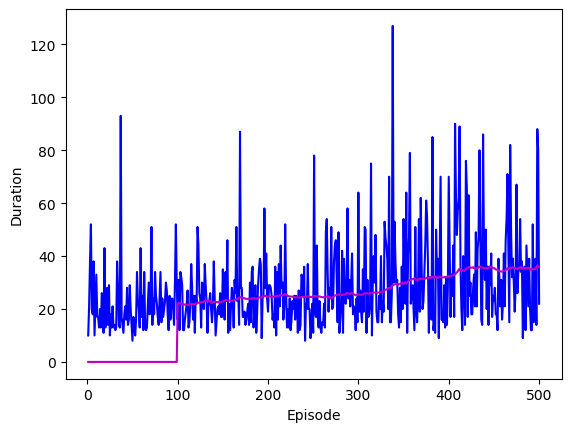
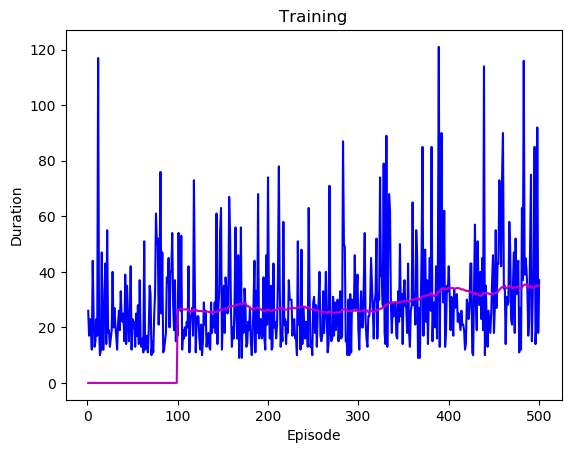
finish cartpole q learning

diff --git a/src/cartpole/q-learn/utils.py b/src/cartpole/q-learn/utils.py
@@ -11,6 +11,7 @@ def plot_training(rewards, moving_avg_period=100):
     plt.figure(1)
     plt.xlabel("Episode")
     plt.ylabel("Duration")
+    plt.title("Training")
 
     episodes = [i for i in range(1, len(rewards) + 1)]
     num_1 = plt.plot(episodes, rewards, 'b', label="Episode Reward")
@@ -36,6 +37,7 @@ def plot_testing(rewards):
     plt.figure(2)
     plt.xlabel("Episode")
     plt.ylabel("Duration")
+    plt.title("Testing")
 
     episodes = [i for i in range(1, len(rewards) + 1)]
     num_1 = plt.plot(episodes, rewards, 'm', label="Episode Reward")

diff --git a/src/cartpole/q-learn/README.md b/src/cartpole/q-learn/README.md
@@ -1,9 +1,17 @@
 # q-learning cartpole
 
-A standard q learning approach to solving OpenAI Gym's Cartpole environment. Because there are infinite potential states, we convert cart position, cart velocity, pole angle, and pole velocity measurements into a 4 digit number through discretized buckets. We then map these 4 digit numbers to the two potential actions (left or right) in the q-table.
+A standard q-learning approach to solving OpenAI Gym's Cartpole environment. Because there are infinite potential states, we convert cart position, cart velocity, pole angle, and pole velocity measurements into a 4 digit number through discretized buckets (see `env.py` for exact sizes). We then map these 4 digit numbers to the two potential actions (left or right) in the q-table.
 
-## Current Hyperparameters
+Currently, testing and training reside in different python files, so `pickle` is used for storing the q_table dictionary externally.
+
+Looking at the performance graphs, the agent performs significantly better during testing as expected (epsilon is set to 0, so the agent always exploits). Interestingly, when the agent is trained for longer periods (~1000-1500 episodes) it will occasionally peform worse when testing. This could be due to the nature of using a q-table in this environment—the longer the agent is trained, the larger the q-table becomes, and the more likely untrained paths are taken. This is however all speculation.
+
+## Hyperparameters
 - ALPHA = 0.1
 - GAMMA = 0.9
-- NUM_EPISODES = 1000
+- NUM_EPISODES = 500
 - EPSILON DECAY = 0.001
+
+## Performance
+<img src="res/training-pic.jpg" alt="drawing" width="550"/>
+<img src="res/testing-pic.jpg" alt="drawing" width="550"/>

diff --git a/README.md b/README.md
@@ -1,3 +1,5 @@
 # reinforcement learning
 
 code for some of my reinforcement learning explorations!
+
+currently working on: [cartpole/q-learn](https://github.com/davidmkwon/rl/tree/master/src/cartpole/q-learn)

diff --git a/src/README.md b/src/README.md
@@ -1,3 +1,3 @@
-# Source
+# source
 
 Here lie the directories corresponding to environments and the code that (attempts) to solve them.
